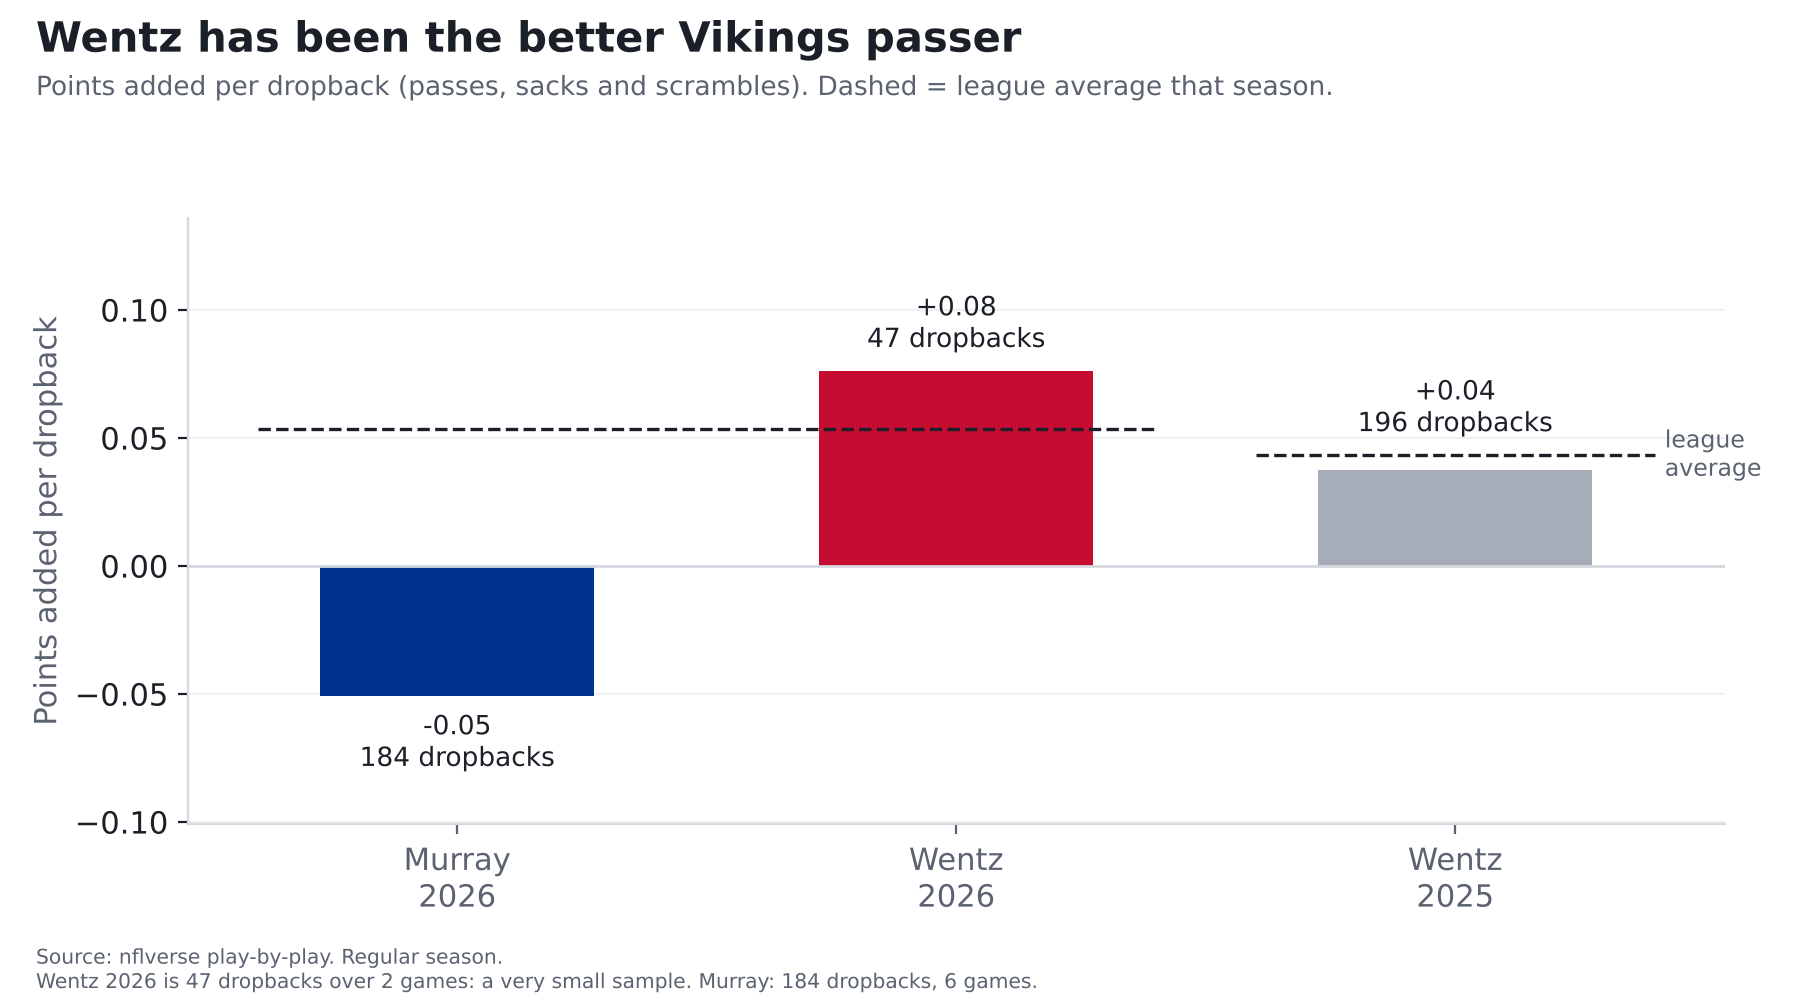
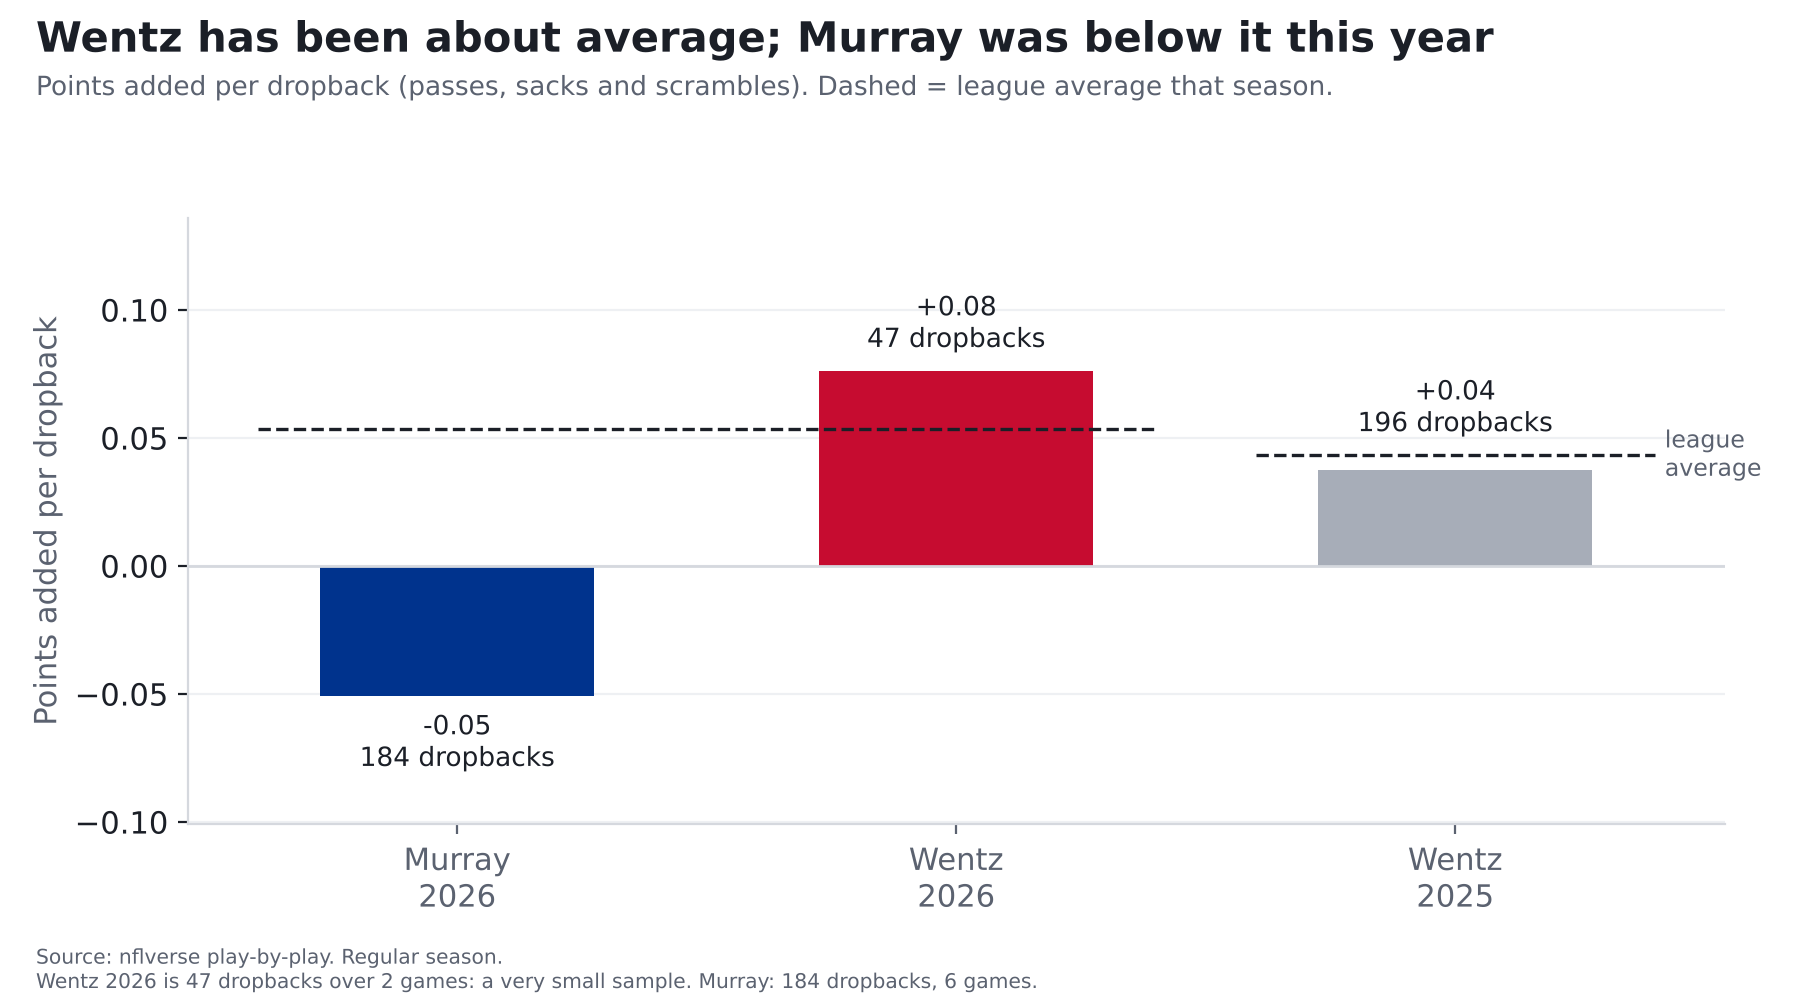
Wk9 preview: QA fixes (no 'better passer' claim, garbage-time qualifier, consistent baseline, ESPN source)
Claude-Session: https://claude.ai/code/session_01EpbAX7fMNT8LnsxAN6UoCp

Changed region(s): [[0.2178, 0.0, 0.84, 0.062]]

diff --git a/src/reports/bills_vikings_preview.py b/src/reports/bills_vikings_preview.py
@@ -145,7 +145,7 @@ def main():
     ax.axhline(0, color="#D5D8DE", lw=1)
     lo = min(min(v3), 0) - 0.05; hi = max(max(v3), lg.epa.max()) + 0.06; ax.set_ylim(lo, hi)
     ax.set_ylabel("Points added per dropback"); ax.grid(axis="y", color="#EEF0F3"); ax.set_axisbelow(True)
-    finish(fig, "Wentz has been the better Vikings passer",
+    finish(fig, "Wentz has been about average; Murray was below it this year",
            "Points added per dropback (passes, sacks and scrambles). Dashed = league average that season.",
            f"Wentz 2026 is {int(w26.db)} dropbacks over {int(w26.g)} games: a very small sample. Murray: {int(m26.db)} dropbacks, {int(m26.g)} games.")
     fig.savefig(OUT / "wk09-qbs.png"); plt.close(fig)
@@ -154,8 +154,9 @@ def main():
     md_text = f"""# Bills at Vikings: the NFL's best offense meets its best defense, and Minnesota's backup QB
 
 **Finding: Through eight weeks, the Bills have the most efficient offense in football and the Vikings have the most
-efficient defense. Something has to give Monday night. Buffalo's weak spot is its pass defense ({ordn(bd.dropback_epa_rk)} of 32), and
-Minnesota is starting Carson Wentz, who has been a better passer than injured starter Kyler Murray this season.**
+efficient defense (counting every play; with garbage time removed they rank {ordn(bo.epa_play_neutral_rk)} and {ordn(md.epa_play_neutral_rk)}). Something has to give
+Monday night. Buffalo's weak spot is its pass defense ({ordn(bd.dropback_epa_rk)} of 32), and with Kyler Murray hurt, Minnesota starts Carson
+Wentz, who has been about an average NFL passer over the last two seasons. Murray was below average this year.**
 
 *Bills at Vikings, Monday Night Football, Nov. 9, 8:15 p.m. ET, U.S. Bank Stadium (indoors). Both teams have played
 {int(bo.games)} games. Numbers count every play unless noted.*
@@ -178,7 +179,7 @@ snap: down, distance, field position, time left and what happened.
 - 1st-and-10 at your own 25 is worth about **{ep.loc[75, 'ep']:.1f} points** on average.
 - At midfield, about **{ep.loc[50, 'ep']:.1f}**. At the opponent's 25, about **{ep.loc[25, 'ep']:.1f}**.
 - Every play moves that number. On 3rd-and-8, a quarterback who drops back and converts adds about **{third.loc['conv', 'epa']:+.1f} points**.
-  If he throws incomplete or comes up short, the drive loses about **{abs(third.loc['fail', 'epa']):.1f}**. If he's sacked, about **{abs(third.loc['sack', 'epa']):.1f}**.
+  If he doesn't convert (an incompletion, a short gain or a turnover), the drive loses about **{abs(third.loc['fail', 'epa']):.1f}**. If he's sacked, about **{abs(third.loc['sack', 'epa']):.1f}**.
 
 **The math:** take the points the drive was worth after the play, subtract what it was worth before, and you have that
 play's value. Average it over every play a team runs and you get its **points per play**. The "points a drive is worth"
@@ -221,7 +222,7 @@ just changed.
 
 ## The quarterback change
 
-Kyler Murray is out with a hamstring injury, so Carson Wentz starts. Wentz has been the more efficient passer:
+Kyler Murray is out with a strained hamstring, so Carson Wentz starts. The two have been different kinds of passers:
 
 ![Quarterbacks](wk09-qbs.png)
 
@@ -231,8 +232,9 @@ Kyler Murray is out with a hamstring injury, so Carson Wentz starts. Wentz has b
 | Carson Wentz | 2026 | {int(w26.g)} | {int(w26.db)} (small sample) | {pts(w26.epa)} | {pts(lg.loc[2026, 'epa'])} | {w26.sk:.1%} |
 | Carson Wentz | 2025 | {int(w25.g)} | {int(w25.db)} | {pts(w25.epa)} | {pts(lg.loc[2025, 'epa'])} | {w25.sk:.1%} |
 
-Among {int(murray_rk.n_q)} quarterbacks with 150+ dropbacks this season, Murray ranks {ordn(murray_rk.rk)}. Over the last two seasons
-combined, Wentz has been right at the level of an average NFL passer ({w_db:+.3f} points per dropback against the league average). The catch:
+Among {int(murray_rk.n_q)} quarterbacks with 150+ dropbacks this season, Murray ranks {ordn(murray_rk.rk)}. Wentz's 2026 number looks better, but
+{int(w26.db)} dropbacks is far too few to read much into. Over the last two seasons combined ({n_db} dropbacks), Wentz has been right
+at league average. The catch:
 he's been sacked more often than average ({w_sk * 100:.1f} percentage points above the league rate), and Minnesota's offense already
 allows sacks at the {ordn(33 - mo.sack_rate_rk)}-highest rate in the league. That's an opening for a Bills pass rush that hasn't found many.
 
@@ -271,8 +273,12 @@ which were mostly Murray's games. That moved call 1 from {c1b['p']:.0%} to {c1['
   Wentz substitution (`off_override`): dropback-weighted, league-relative, 2025-26 ({n_db} dropbacks): EPA/dropback
   {w_db:+.4f}, sack rate {w_sk:+.4f}. Expected values: call 1 {c1['expected']:+.3f} (team-based {c1b['expected']:+.3f});
   call 2 {c2['expected']:+.3f}; call 3 {c3['expected']:.3f} (team-based {c3b['expected']:.3f}).
+- off_override replaces Minnesota's whole 2026 offensive level (line and receivers included) with Wentz's own number;
+  196 of his 243 dropbacks came with Minnesota in 2025, so the supporting cast is mostly the same. The team value it
+  replaces includes Wentz's 47 dropbacks from weeks 1-2. Baseline for both is the mean of team-game values.
 - Small samples throughout: {int(bo.games)} games per team; Wentz 2026 is {int(w26.db)} dropbacks.
-- Injury news: Murray ruled out (hamstring) by Vikings coach Kevin O'Connell on Nov. 5, 2026 (ESPN, Minnesota Star Tribune).
+- Injury news: Vikings coach Kevin O'Connell announced Nov. 5, 2026 that Wentz starts with Murray out (strained hamstring,
+  hurt in the week 8 loss to Detroit). Source: ESPN, Nov. 5, 2026.
 """
     (OUT / "2026-wk09-bills-at-vikings.md").write_text(md_text)
     print(md_text)

diff --git a/src/ledger/model_v01.py b/src/ledger/model_v01.py
@@ -50,7 +50,7 @@ QB_METRICS = {"dropback_epa": "epa", "sack_rate": "sack"}
 
 
 def qb_relative(player_id, metric, seasons, con=None):
-    """A QB's dropback-weighted value of `metric` relative to each season's league average.
+    """A QB's dropback-weighted value of `metric` relative to each season's league average (mean of team-game values).
 
     Dropbacks = qb_dropback plays with EPA, regular season, no two-point tries; the QB is
     COALESCE(passer_player_id, rusher_player_id) so scrambles count. Returns (relative value, dropbacks).
@@ -60,7 +60,8 @@ def qb_relative(player_id, metric, seasons, con=None):
     ph = ",".join("?" * len(seasons))
     base = (f"FROM raw_pbp WHERE season IN ({ph}) AND season_type='REG' AND qb_dropback=1 AND epa IS NOT NULL "
             "AND COALESCE(two_point_attempt,0)=0")
-    lg = query(f"SELECT season, AVG({col}) v {base} GROUP BY season", params=seasons, con=con).set_index("season").v
+    # baseline = mean of team-game values, the same league baseline prob_over uses
+    lg = pd.Series({s: game_values(s, metric, con).query("side == 'off'").v.mean() for s in seasons})
     q = query(f"SELECT season, COUNT(*) n, AVG({col}) v {base} AND COALESCE(passer_player_id, rusher_player_id)=? GROUP BY season",
               params=seasons + (player_id,), con=con)
     if q.empty:

diff --git a/reports/2026-wk09-bills-at-vikings.md b/reports/2026-wk09-bills-at-vikings.md
@@ -1,8 +1,9 @@
 # Bills at Vikings: the NFL's best offense meets its best defense, and Minnesota's backup QB
 
 **Finding: Through eight weeks, the Bills have the most efficient offense in football and the Vikings have the most
-efficient defense. Something has to give Monday night. Buffalo's weak spot is its pass defense (24th of 32), and
-Minnesota is starting Carson Wentz, who has been a better passer than injured starter Kyler Murray this season.**
+efficient defense (counting every play; with garbage time removed they rank 3rd and 2nd). Something has to give
+Monday night. Buffalo's weak spot is its pass defense (24th of 32), and with Kyler Murray hurt, Minnesota starts Carson
+Wentz, who has been about an average NFL passer over the last two seasons. Murray was below average this year.**
 
 *Bills at Vikings, Monday Night Football, Nov. 9, 8:15 p.m. ET, U.S. Bank Stadium (indoors). Both teams have played
 7 games. Numbers count every play unless noted.*
@@ -25,7 +26,7 @@ snap: down, distance, field position, time left and what happened.
 - 1st-and-10 at your own 25 is worth about **1.1 points** on average.
 - At midfield, about **2.6**. At the opponent's 25, about **4.2**.
 - Every play moves that number. On 3rd-and-8, a quarterback who drops back and converts adds about **+2.4 points**.
-  If he throws incomplete or comes up short, the drive loses about **1.2**. If he's sacked, about **1.9**.
+  If he doesn't convert (an incompletion, a short gain or a turnover), the drive loses about **1.2**. If he's sacked, about **1.9**.
 
 **The math:** take the points the drive was worth after the play, subtract what it was worth before, and you have that
 play's value. Average it over every play a team runs and you get its **points per play**. The "points a drive is worth"
@@ -68,7 +69,7 @@ just changed.
 
 ## The quarterback change
 
-Kyler Murray is out with a hamstring injury, so Carson Wentz starts. Wentz has been the more efficient passer:
+Kyler Murray is out with a strained hamstring, so Carson Wentz starts. The two have been different kinds of passers:
 
 ![Quarterbacks](wk09-qbs.png)
 
@@ -78,8 +79,9 @@ Kyler Murray is out with a hamstring injury, so Carson Wentz starts. Wentz has b
 | Carson Wentz | 2026 | 2 | 47 (small sample) | +0.08 | +0.05 | 12.8% |
 | Carson Wentz | 2025 | 5 | 196 | +0.04 | +0.04 | 9.7% |
 
-Among 30 quarterbacks with 150+ dropbacks this season, Murray ranks 23rd. Over the last two seasons
-combined, Wentz has been right at the level of an average NFL passer (-0.000 points per dropback against the league average). The catch:
+Among 30 quarterbacks with 150+ dropbacks this season, Murray ranks 23rd. Wentz's 2026 number looks better, but
+47 dropbacks is far too few to read much into. Over the last two seasons combined (243 dropbacks), Wentz has been right
+at league average. The catch:
 he's been sacked more often than average (3.8 percentage points above the league rate), and Minnesota's offense already
 allows sacks at the 3rd-highest rate in the league. That's an opening for a Bills pass rush that hasn't found many.
 
@@ -116,7 +118,11 @@ which were mostly Murray's games. That moved call 1 from 58% to 65% and call 3 f
 - Draft calls: Ledger model v0.1-locshift (`src/ledger/model_v01.py`), shrink 0.5. Expected game value = league +
   0.5 x (offense vs league + defense vs league); probability from the 2026 within-team game-to-game spread.
   Wentz substitution (`off_override`): dropback-weighted, league-relative, 2025-26 (243 dropbacks): EPA/dropback
-  -0.0001, sack rate +0.0383. Expected values: call 1 +0.076 (team-based +0.037);
+  -0.0073, sack rate +0.0378. Expected values: call 1 +0.072 (team-based +0.037);
   call 2 -0.154; call 3 0.078 (team-based 0.074).
+- off_override replaces Minnesota's whole 2026 offensive level (line and receivers included) with Wentz's own number;
+  196 of his 243 dropbacks came with Minnesota in 2025, so the supporting cast is mostly the same. The team value it
+  replaces includes Wentz's 47 dropbacks from weeks 1-2. Baseline for both is the mean of team-game values.
 - Small samples throughout: 7 games per team; Wentz 2026 is 47 dropbacks.
-- Injury news: Murray ruled out (hamstring) by Vikings coach Kevin O'Connell on Nov. 5, 2026 (ESPN, Minnesota Star Tribune).
+- Injury news: Vikings coach Kevin O'Connell announced Nov. 5, 2026 that Wentz starts with Murray out (strained hamstring,
+  hurt in the week 8 loss to Detroit). Source: ESPN, Nov. 5, 2026.
